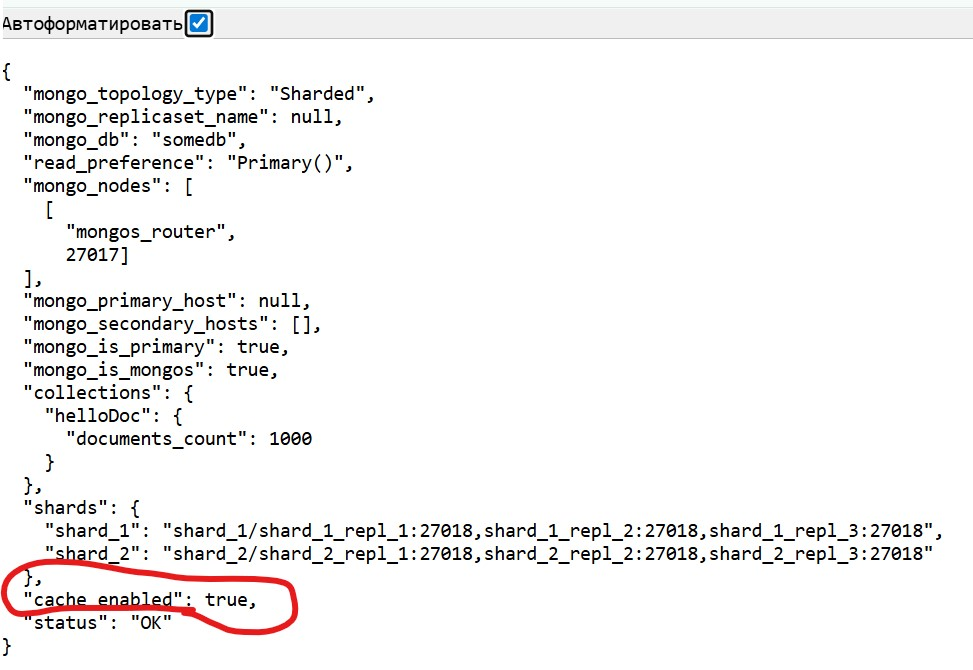
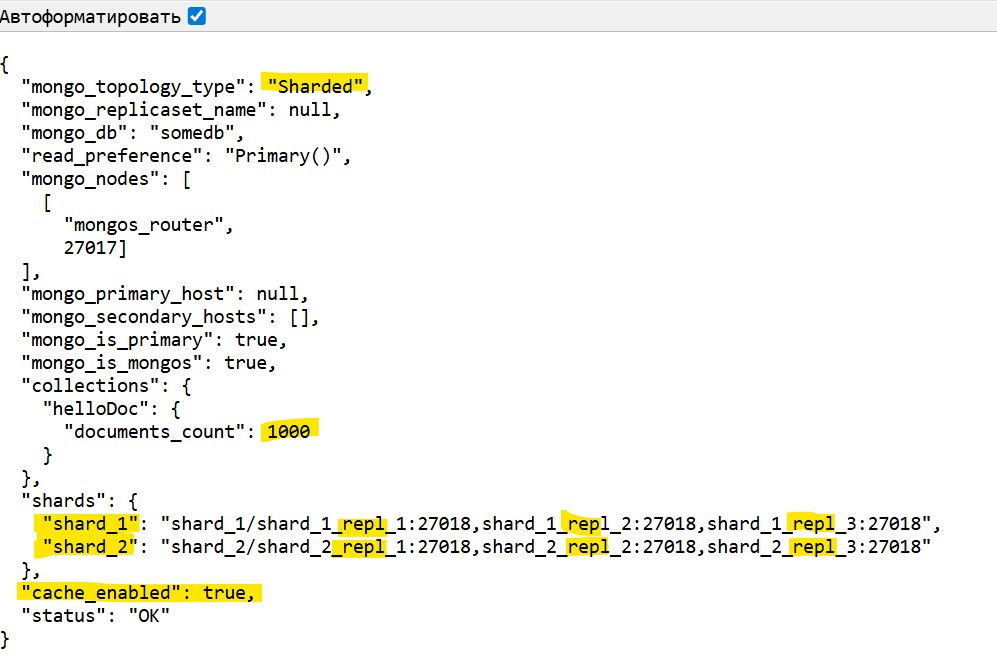
Readme updated

diff --git a/README.md b/README.md
@@ -1,11 +1,19 @@
 # pymongo-api
 
+## Diagram
+
+[drawio diagram](diagrams/diagram.drawio)
+
 
 ![diagram.png](diagrams/diagram.png)
 
 ## Как запустить
 
-Запускаем mongodb и приложение
+Запускаем итоговую версию mongodb и приложение
+
+```shell
+cd sharding-repl-cache
+```
 
 ```shell
 docker compose up -d
@@ -16,6 +24,8 @@ docker compose up -d
 ```shell
 ./scripts/mongo-init.sh
 ```
+
+![shard_repl_script_output.jpg](mongo-sharding-repl/img/shard_repl_script_output.jpg)
 
 ## Как проверить
 
@@ -33,6 +43,12 @@ curl --silent http://ifconfig.me
 
 Откройте в браузере http://<ip виртуальной машины>:8080
 
+![shard-repl-cache-api.jpg](sharding-repl-cache/img/shard-repl-cache-api.jpg)
+
 ## Доступные эндпоинты
 
 Список доступных эндпоинтов, swagger http://<ip виртуальной машины>:8080/docs
+
+Второй и последующие вызовы эндпоинта /<collection_name>/users выполняются <1000мс
+
+![shard-repl-cache.jpg](sharding-repl-cache/img/shard-repl-cache.jpg)
